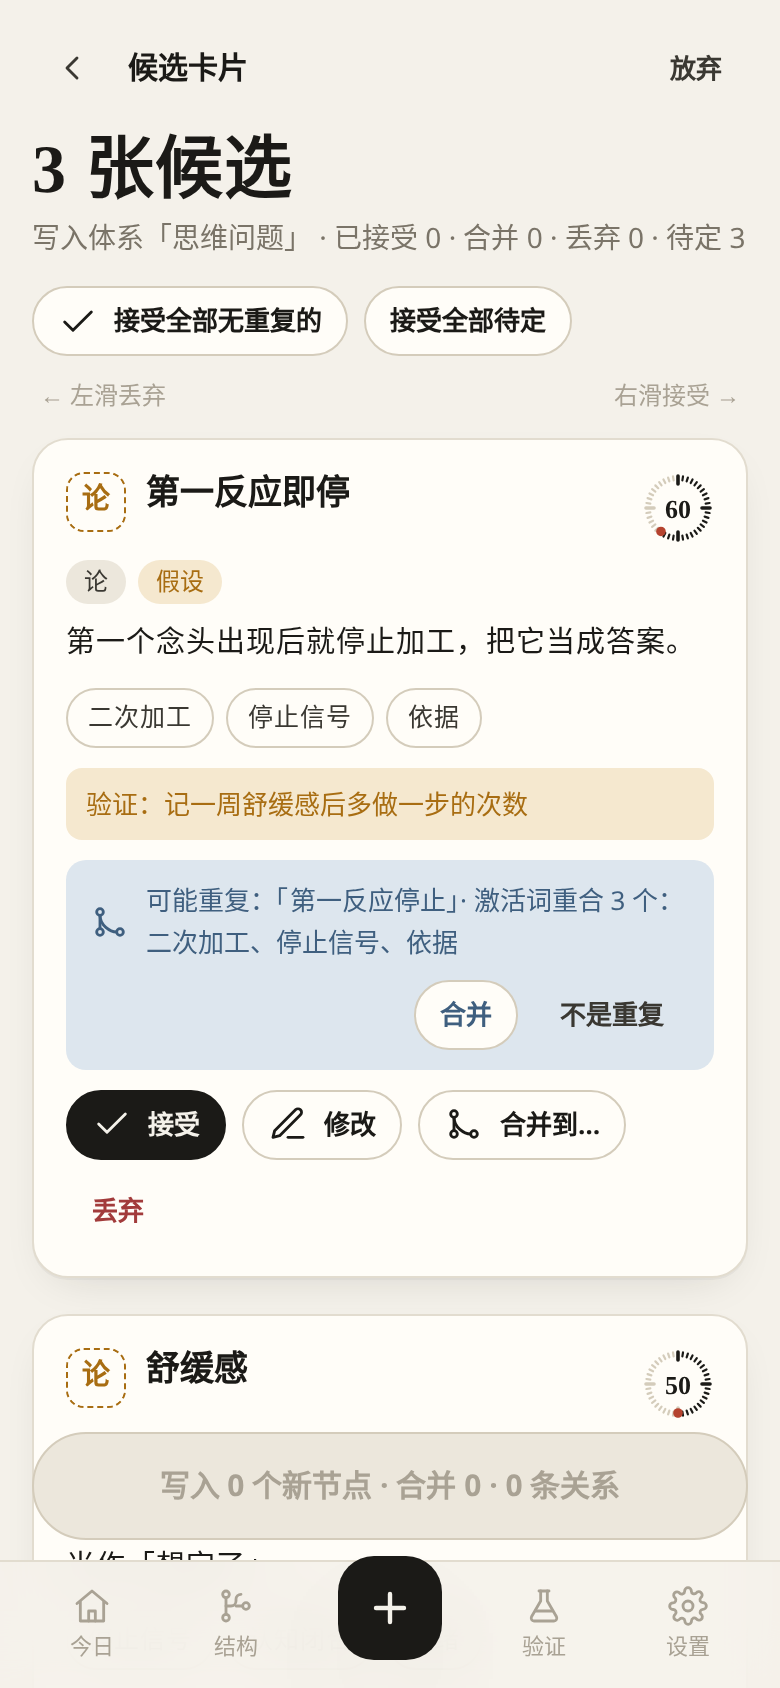
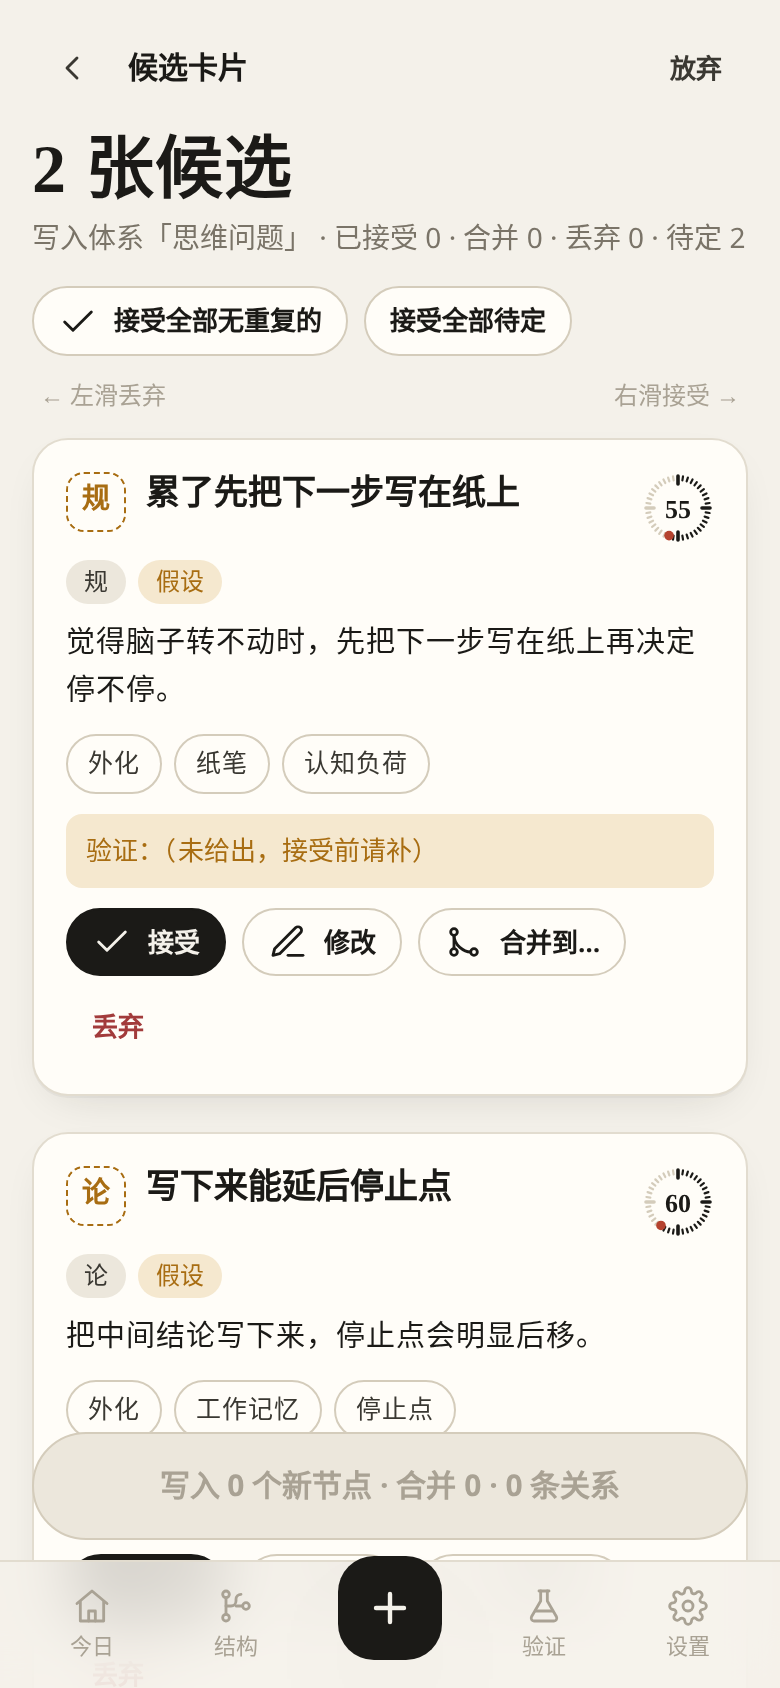
脉络 V2 T03: 录入接通碰撞引擎与手动模式

diff --git a/mailuo/www/js/app.js b/mailuo/www/js/app.js
@@ -4,6 +4,7 @@ import { openVault, IdbVault, FsVault, CapVault, exportZip, importZip, listSnaps
 import { getConfig, setConfig, usage, callModel, PROMPT_SPLIT, splitUserMessage, extractJson, normalizeSplit, PROMPT_THINK, parseAnswer, PRESETS, estimateTokens, PROMPT_KEYWORDS, keywordsUserMessage } from './llm.js';
 import { buildPack, MODE_QUESTIONS, libraryTokens, systemOutline } from './pack.js';
 import { healthCheck, traceCause, longestChain, learningPath, dueReviews, gradeReview, weeklyDigest } from './features.js';
+import { PROMPT_COLLIDE, libraryDigest, collideUserMessage, normalizeCollide } from './collide.js';
 import { loadSeed, SEED_SYSTEM, SEED_NODES } from './seed.js';
 
 const VERSION = '0.1.5';
@@ -822,10 +823,17 @@ function viewCapture() {
     localStorage.setItem('mailuo.lastSource', source.value.trim());
     return system;
   };
-  const splitMessage = (system) => splitUserMessage(store.list(system).slice(0, 80), text.value.trim());
+  const digest = () => libraryDigest(store, text.value.trim(), { system: sysSel.value === '__new' ? newSys.value.trim() : sysSel.value });
+  const summary = h('p', { class: 'small muted', 'data-testid': 'digest-summary' });
+  let timer;
+  const updateSummary = () => { const d = digest(); summary.textContent = '将附上节点库摘要：' + d.ids.length + ' 个节点 · 约 ' + d.tokens + ' token（库里共 ' + d.total + ' 个）'; };
+  const scheduleSummary = () => { clearTimeout(timer); timer = setTimeout(updateSummary, 300); };
+  text.addEventListener('input', scheduleSummary); sysSel.addEventListener('change', updateSummary); newSys.addEventListener('input', scheduleSummary);
+  updateSummary();
+  const splitMessage = () => collideUserMessage(digest(), text.value.trim());
   const finish = async (raw, system) => {
-    const data = normalizeSplit(extractJson(raw));
-    if (!data.nodes.length) throw new Error('没有拆出节点，换一段材料试试');
+    const data = normalizeCollide(extractJson(raw), store);
+    if (!data.adjust.length && !data.nodes.length && !data.links.length) throw new Error('材料没有撞到任何东西，也没有新内容');
     if (!store.systems.has(system)) await store.addSystem(system);
     session.sys = system;
     startCands({ ...data, system, source: source.value.trim() });
@@ -836,38 +844,39 @@ function viewCapture() {
     if (!system) return;
     btn.disabled = true;
     status.innerHTML = '';
-    status.append(waiting('便宜模型拆分中，目标 30 秒内'));
+    status.append(waiting('正在撞击体系，生成候选'));
     try {
-      const res = await callModel('split', PROMPT_SPLIT, splitMessage(system), { maxTokens: 3000 });
+      const res = await callModel('split', PROMPT_COLLIDE, splitMessage(), { maxTokens: 3500 });
       await finish(res.text, system);
     } catch (e) {
       status.innerHTML = '';
       status.append(h('div', { class: 'banner' }, e.message));
     } finally { btn.disabled = false; }
-  } }, icon('spark'), '拆分为候选卡片');
+  } }, icon('spark'), '撞击体系，生成候选');
   const manual = manualPanel({
-    title: '不走 API：去聊天 App 拆分', testid: 'manual-split',
-    hint: '复制拆分指令，粘贴到 ChatGPT / Claude / 豆包等聊天 App，再把它回复的 JSON 粘贴回来。不消耗你的 API 额度。',
-    getText: () => { const sys = target(); return sys ? PROMPT_SPLIT + '\n\n' + splitMessage(sys) : ''; },
+    title: '不走 API：去聊天 App 撞击体系', testid: 'manual-split',
+    hint: '复制碰撞指令，粘贴到 ChatGPT / Claude / 豆包等聊天 App，再把它回复的 JSON 粘贴回来。不消耗你的 API 额度。',
+    getText: () => { const sys = target(); return sys ? PROMPT_COLLIDE + '\n\n' + splitMessage() : ''; },
     placeholder: '把聊天 App 回复的 JSON 粘贴到这里',
     onPaste: async (raw) => { const sys = target(); if (!sys) return; try { await finish(raw, sys); } catch (e) { toast(e.message, 3500); } },
   });
-  const out = [topbarBack('录入'), h('h1', { class: 'display' }, '录入与拆分'),
-    h('p', { class: 'sub' }, '便宜模型只负责拆，节点和关系都要你逐张确认才会写入文件。'),
+  const out = [topbarBack('录入'), h('h1', { class: 'display' }, '录入'),
+    h('p', { class: 'sub' }, '新材料先撞击已有判断，再补链，最后才新建。所有改动都要你在候选里确认。'),
     session.cands ? h('div', { class: 'banner', style: { cursor: 'pointer' }, onclick: () => go('#/cands') }, icon('layers'), '有 ' + session.cands.nodes.length + ' 张候选卡片还没处理完，点此继续') : null,
     h('div', { class: 'row mt' }, h('div', { class: 'field' }, h('label', {}, '目标体系'), sysSel, newSys), h('div', { class: 'field' }, h('label', {}, '来源'), source)),
     h('div', { class: 'field' }, h('label', {}, '材料 ', count), text),
-    btn, status, manual,
+    summary, btn, status, manual,
     h('div', { class: 'center mt' }, h('button', { class: 'btn ghost', onclick: () => newNodeSheet(sysSel.value === '__new' ? '' : sysSel.value, '') }, '不用 AI，手动新建一个节点'))];
   return out;
 }
 
 function startCands(data) {
   const nodes = data.nodes.map((c) => {
-    const dupe = c.merge_into && store.nodes.has(c.merge_into) ? { node: store.nodes.get(c.merge_into), reason: '模型判断含义相同' } : findDuplicate(c, store);
+    const preferred = c.dupe_of || c.merge_into;
+    const dupe = preferred && store.nodes.has(preferred) ? { node: store.nodes.get(preferred), reason: '模型判断含义相近' } : findDuplicate(c, store);
     return { ...c, parent: c.parent || '', state: c.merge_into && store.nodes.has(c.merge_into) ? 'pending' : 'pending', dupeId: dupe?.node.id || '', dupeReason: dupe?.reason || '', mergeTo: '' };
   });
-  session.cands = { ...data, nodes, links: data.links.map((l) => ({ ...l, on: l.on ?? true })) };
+  session.cands = { ...data, adjust: (data.adjust || []).map((a) => ({ ...a, state: 'pending', to_final: a.to })), nodes, links: data.links.map((l) => ({ ...l, on: l.on ?? true })) };
   saveDraft();
   go('#/cands');
 }
@@ -892,7 +901,7 @@ function viewCands() {
   const linkCount = C.links.filter((l) => l.on && resolvable(l.from) && resolvable(l.to)).length;
   // 逐张处理时保持滚动位置
   const persist = () => { saveDraft(); route(true); };
-  const needsVerify = (c) => c.status === '假设' && !String(c.verify || '').trim();
+  const needsVerify = (c) => c.type === '论' && !(c.sentinels?.length || String(c.verify || '').trim());
   const accept = (c) => {
     if (needsVerify(c)) { toast('假设类要先补验证方式'); persist(); return editCandSheet(c, persist); }
     c.state = 'accepted'; persist();
